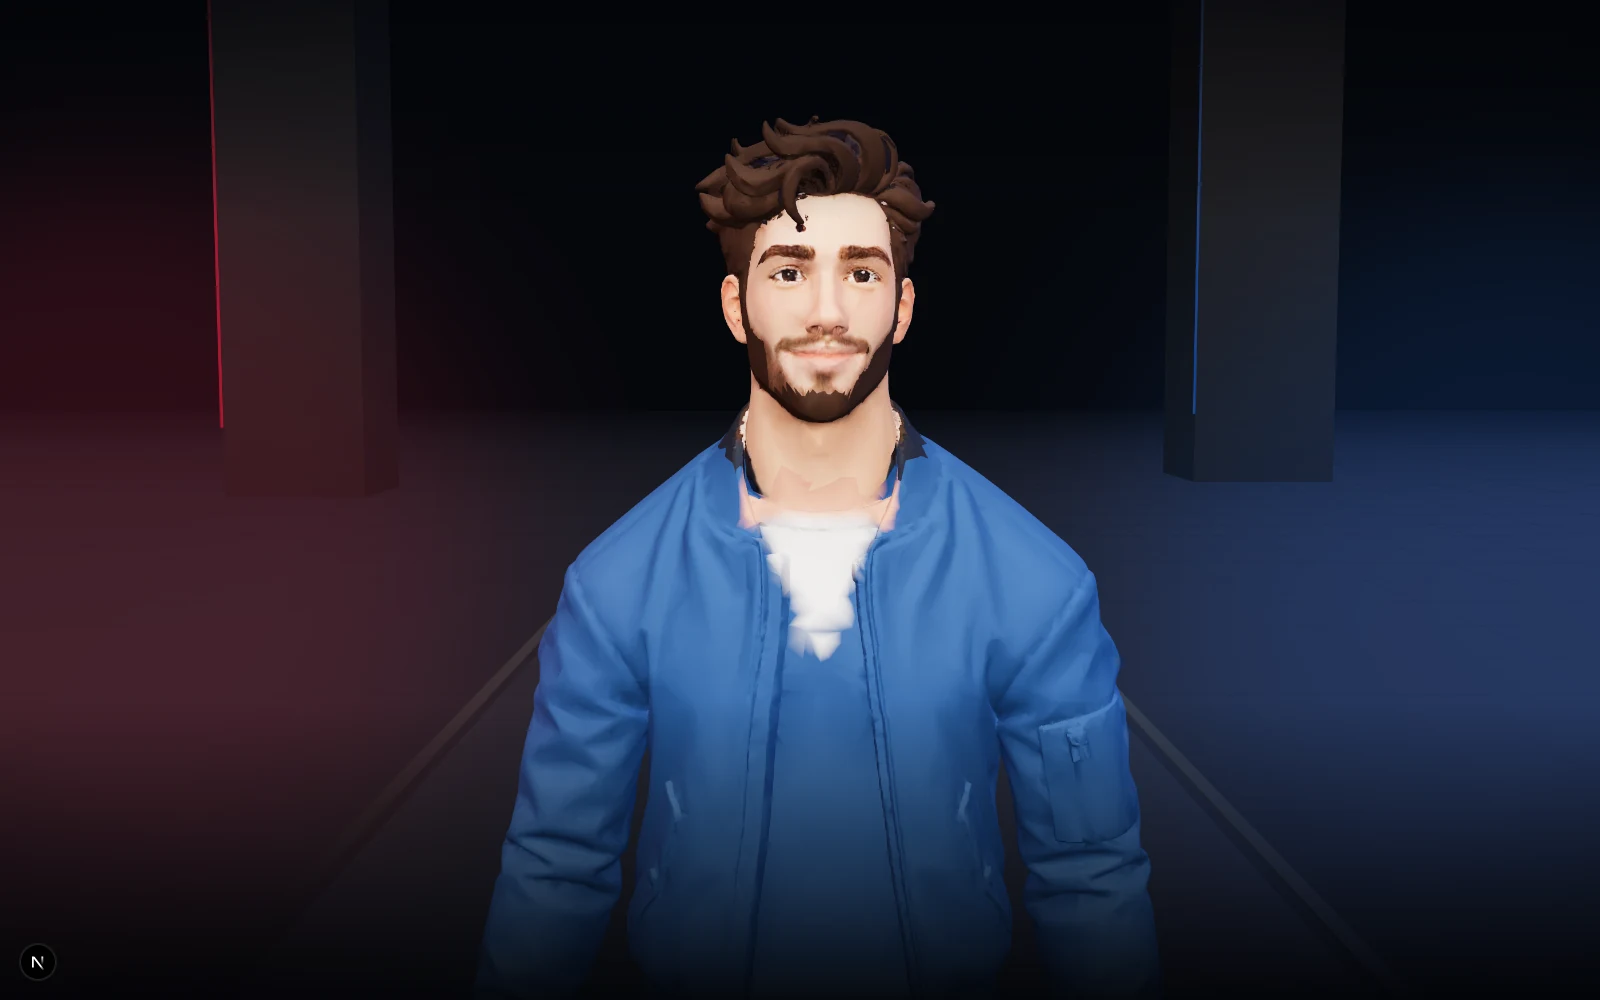
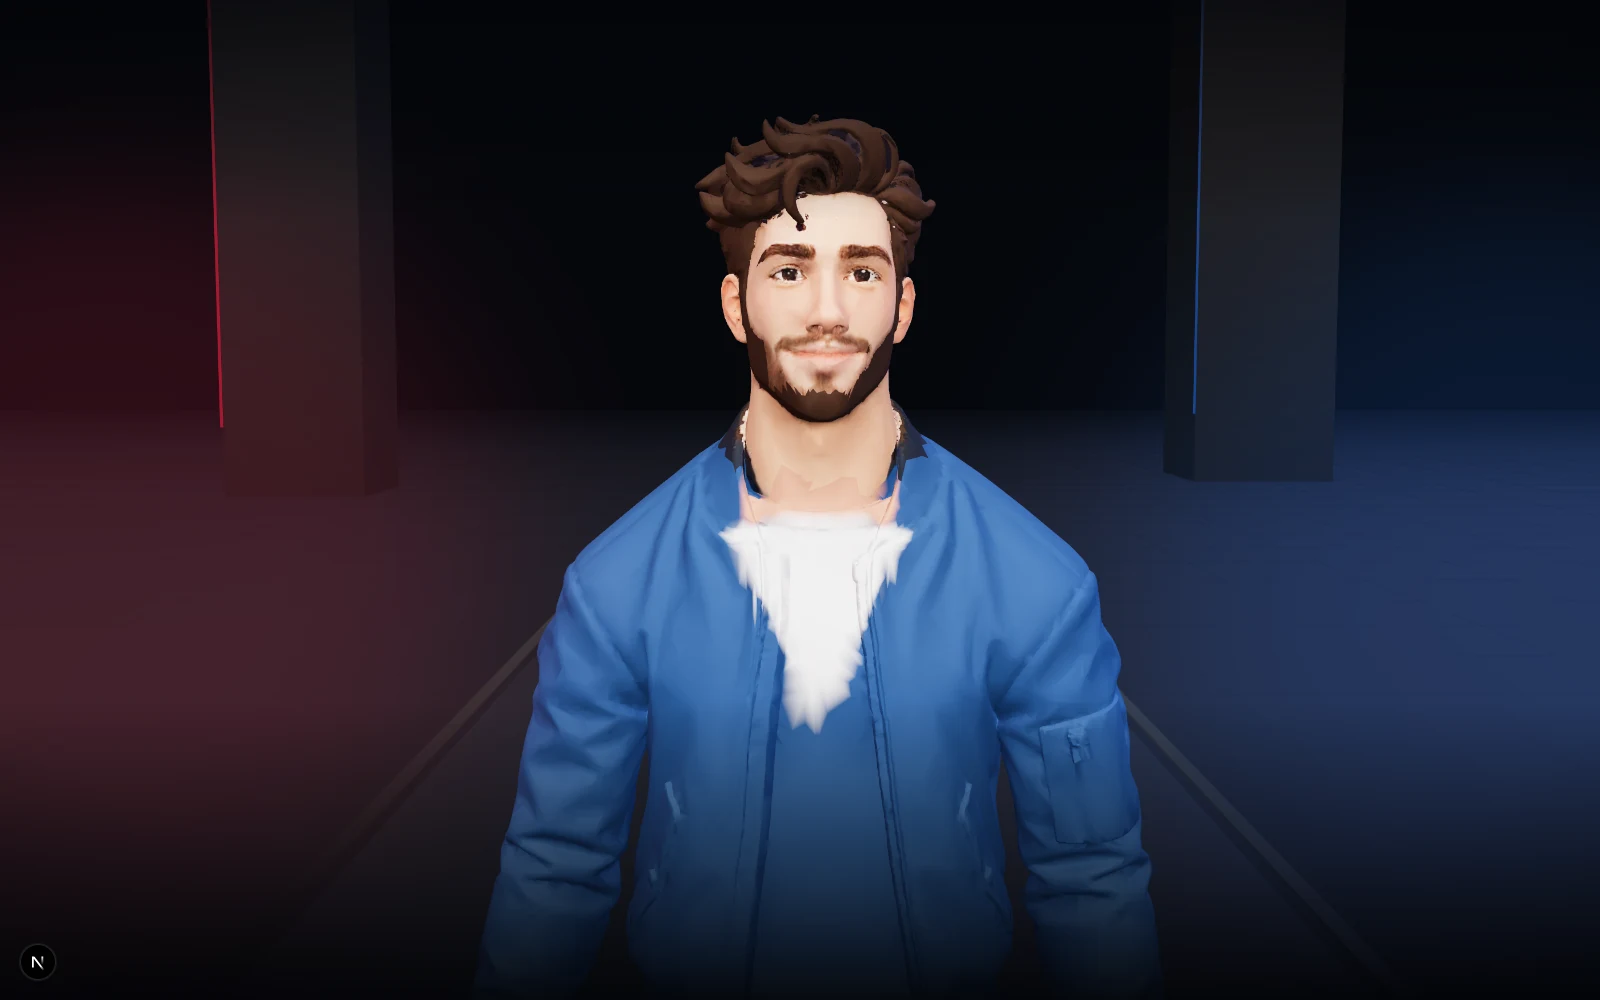
Make guide t-shirt white and jeans navy

Changed region(s): [[0.4375, 0.527, 0.5938, 0.744], [0.4688, 0.217, 0.5, 0.279], [0.5312, 0.248, 0.5625, 0.279]]

diff --git a/web/components/CinematicIntro.tsx b/web/components/CinematicIntro.tsx
@@ -253,19 +253,19 @@ const NECK_SEAM_BAND = { y0: 0.618, y1: 0.718, halfWidth: 0.07 };
 // close-up; blending the tint per vertex keeps the shirt edge soft while the
 // geometry still deforms with the rig. Raw-y bounds: a point at the sternum
 // widening to the neck.
-const TEE_V = { y0: 0.5, y1: 0.618, bottomHalfWidth: 0.012, topHalfWidth: 0.062 };
-const TEE_FEATHER = 0.012;
+const TEE_V = { y0: 0.45, y1: 0.618, bottomHalfWidth: 0.018, topHalfWidth: 0.09 };
+const TEE_FEATHER = 0.008;
 
 // The source atlas is not a coherent garment layout: jacket triangles sample
 // hair, skin and knit-top islands, which is what produced the brown seam
 // “tears” and the dark flecks on the white top. Rather than keep chasing UVs,
 // the body clothing gets clean stylized materials. Head, hands and shoes keep
 // the original textured material so the face, hair, beard and skin detail stay.
-// The upper body is rendered as a clean blue bomber with jeans in a lighter
-// denim blue. The neck seam is feathered with a vertex skin tint (NECK_SEAM_BAND)
-// so the collar reads as separate from the neck, and the jacket's V opening is
-// tinted white for the t-shirt (TEE_V). Both boundaries blend per vertex, so
-// they stay soft in close-up instead of following triangle edges.
+// The upper body is rendered as a clean blue bomber with navy jeans. The neck
+// seam is feathered with a vertex skin tint (NECK_SEAM_BAND) so the collar reads
+// as separate from the neck, and the jacket's V opening is tinted white for the
+// t-shirt (TEE_V). Both boundaries blend per vertex, so they stay soft in
+// close-up instead of following triangle edges.
 function installCleanClothing(model: THREE.Object3D): void {
   model.traverse((object) => {
     const mesh = object as THREE.Mesh;
@@ -307,6 +307,23 @@ function installCleanClothing(model: THREE.Object3D): void {
       }
     }
 
+    // Smooth white tee tint inside the V. The falloff is a few centimetres so
+    // the neckline reads as fabric in shadow, not a paint boundary.
+    const teeMasks = new Float32Array(position.count);
+    for (let vertex = 0; vertex < position.count; vertex += 1) {
+      const x = position.getX(vertex);
+      const y = position.getY(vertex);
+      const z = position.getZ(vertex);
+      const taper = clamp((y - TEE_V.y0) / (TEE_V.y1 - TEE_V.y0));
+      const halfWidth =
+        TEE_V.bottomHalfWidth + (TEE_V.topHalfWidth - TEE_V.bottomHalfWidth) * taper;
+      const across = smoothstep(clamp((halfWidth - Math.abs(x)) / TEE_FEATHER));
+      const top = smoothstep(clamp((TEE_V.y1 - y) / 0.008));
+      const bottom = smoothstep(clamp((y - TEE_V.y0) / 0.008));
+      const front = z > 0.003 ? 1 : 0;
+      teeMasks[vertex] = across * top * bottom * front;
+    }
+
     const groups: number[][] = [[], [], []];
     const original = source.array;
     const triangles = Math.floor(original.length / 3);
@@ -334,10 +351,8 @@ function installCleanClothing(model: THREE.Object3D): void {
     }
     if (groups[1].length + groups[2].length === 0) return;
 
-    // Smooth white tee tint inside the V. The falloff is a few centimetres so
-    // the neckline reads as fabric in shadow, not a paint boundary.
     const jacketColour = new THREE.Color(0x275285);
-    const teeColour = new THREE.Color(0xf1efe7);
+    const teeColour = new THREE.Color(0xffffff);
     const skinColour = new THREE.Color(0xd99479);
     const vertexColour = new THREE.Color();
     const colours = new Float32Array(position.count * 3);
@@ -345,14 +360,7 @@ function installCleanClothing(model: THREE.Object3D): void {
       const x = position.getX(vertex);
       const y = position.getY(vertex);
       const z = position.getZ(vertex);
-      const taper = clamp((y - TEE_V.y0) / (TEE_V.y1 - TEE_V.y0));
-      const halfWidth =
-        TEE_V.bottomHalfWidth + (TEE_V.topHalfWidth - TEE_V.bottomHalfWidth) * taper;
-      const across = smoothstep(clamp((halfWidth - Math.abs(x)) / TEE_FEATHER));
-      const top = smoothstep(clamp((TEE_V.y1 - y) / 0.008));
-      const bottom = smoothstep(clamp((y - TEE_V.y0) / 0.008));
-      const front = z > 0.003 ? 1 : 0;
-      const teeMask = across * top * bottom * front;
+      const teeMask = teeMasks[vertex];
 
       // The neck band replaces the old flat-skin material group. Painting the
       // collar vertices skin and feathering into the jacket removes the hard
@@ -396,10 +404,10 @@ function installCleanClothing(model: THREE.Object3D): void {
       dithering: true,
     });
     const pants = new THREE.MeshStandardMaterial({
-      color: 0x3f699c,
-      roughness: 0.92,
+      color: 0x1b2b4a,
+      roughness: 0.94,
       metalness: 0,
-      envMapIntensity: 0.3,
+      envMapIntensity: 0.25,
       side: THREE.DoubleSide,
       dithering: true,
     });

diff --git a/docs/IMPLEMENTATION.md b/docs/IMPLEMENTATION.md
@@ -682,8 +682,8 @@ Each role is a real route: `/jobs/genai`, `/jobs/data`, `/jobs/uiux`. The homepa
 | Local files | `web/public/models/student/` |
 | Posters | `scene.webp` is the wide selector still used by the boot/static background; `portrait.webp` is a close-up reference render |
 | Mesh | 85,487 triangles; quantized; embedded WebP textures: 2048px basecolour, 1024px normal and metallic-roughness; shipped GLB 3,684,764 B |
-| Look | Bearded adult, warm-brown hair, blue bomber over a white V-neck t-shirt, blue jeans, white sneakers; no runtime glasses |
-| Shading | Runtime geometry split into three indexed material groups: original textured atlas (head, hair, hands, shoes), a vertex-coloured clothing group (blue bomber plus the white t-shirt V and the feathered skin neck tint) and blue jeans. The tee and neck tint are per-vertex colour blends, not separate hard-edged material groups, so the collar and t-shirt boundaries stay soft in close-up. Textured material: `metalness: 0`, roughness `0.86`, normal scale `0.38`, environment intensity `0.42`; clothing materials are matte `MeshStandardMaterial` with dithering. Clothing/face can be tuned independently without re-authoring the atlas |
+| Look | Bearded adult, warm-brown hair, blue bomber over a white V-neck t-shirt, navy jeans, white sneakers; no runtime glasses |
+| Shading | Runtime geometry split into three indexed material groups: original textured atlas (head, hair, hands, shoes), a vertex-coloured clothing group (blue bomber `0x275285`, the white t-shirt V `0xffffff` and the feathered skin neck tint `0xd99479`) and navy jeans (flat `0x1b2b4a`). The tee and neck tint are per-vertex colour blends, not separate hard-edged material groups, so the collar and t-shirt boundaries stay soft in close-up. Textured material: `metalness: 0`, roughness `0.86`, normal scale `0.38`, environment intensity `0.42`; clothing materials are matte `MeshStandardMaterial` with dithering. Clothing/face can be tuned independently without re-authoring the atlas |
 | Motion | Walk (1.0 s) + run clips; breathing idle averages four walk poses to remove the stride, then layers a 5.6 s chest/head cycle; 1.8 m stride-matched walk; 0.55 s turn before travel |
 | Rotation | `student-turntable` group inside the character root; pointer drag in `selecting`; auto-rotate defaults **off** but can be enabled from the dock; turntable yaw is independent of skeleton animation and resets smoothly before walking |
 | Framing | The selector camera is a close stage shot: the full guide is about 60% of a 900px viewport, with the head below the top bar and the shoes above the bottom dock; the face fill follows the character so the face stays readable after the walk |
@@ -693,7 +693,7 @@ Each role is a real route: `/jobs/genai`, `/jobs/data`, `/jobs/uiux`. The homepa
 The guide is deliberately a stylized prototype, not a finished character. The source
 atlas has scrambled garment UV islands: jacket, knit top, hair and skin shared one texture,
 which produced brown “tears” and dark flecks when the atlas was used directly. The runtime
-now replaces the jacket, trousers and knit top with clean materials: a blue bomber, blue
+now replaces the jacket, trousers and knit top with clean materials: a blue bomber, navy
 jeans, a white t-shirt V and a feathered skin tint at the collar. The tint and tee are
 vertex-colour blends, so the low-poly neckline seam no longer reads as a hard collar band.
 Because the cleaned atlas is only sampled by those remaining textured triangles, residual
@@ -1001,6 +1001,8 @@ Live verification after the push (2026-10-22, `0baecf8`): the deployment served 
 Outfit refresh (2026-10-22, local dev capture, pre-deployment commit): `npx tsc --noEmit` and `npm run build` pass. Local captures at 1280×800 and 2560×1440 show the blue bomber, blue jeans and a visible white V-neck t-shirt. The collar and t-shirt boundaries are per-vertex colour blends, so there is no pink material sawtooth and no torn-looking edge in close-up. The dock read `AUTO-ROTATE OFF` after a 3 s hold, and a pointer drag rotated the guide to the side and back. No page errors were reported. Local `/api/jobs` served the bundled fallback rather than live counts, so live counts are re-verified after deployment. The regenerated posters are `scene.webp` (74,924 B) and `portrait.webp` (38,112 B).
 
 Live verification after the outfit push (2026-10-22, `cc60e7c`): the deployment served the new `scene.webp` (74,924 B) and `portrait.webp` (38,112 B). Captures at 1280×800 and 1600×900, taken seven seconds after skipping the intro, show the blue bomber, blue jeans, white V-neck t-shirt and soft collar. The dock read `AUTO-ROTATE OFF` and no page errors were reported. `/api/jobs` returned GenAI **1,084**, Data Engineering **1,234** and UI/UX **1,280**, all `demo=false`; `/api/status` reported `configured=true`; `/`, `/jobs/genai`, `/jobs/data` and `/jobs/uiux` returned 200. A capture taken three seconds after skipping was still mid lighting ramp at 1600×900; the settled seven-second capture is the reference.
+
+Outfit colour pass (2026-10-22, local dev capture, pre-deployment): `npx tsc --noEmit` and `npm run build` pass. The guide now renders a blue bomber (`0x275285`), navy jeans (`0x1b2b4a`) and a pure-white V-neck t-shirt (`0xffffff` vertex tint), with the feathered collar skin at `0xd99479`. Captures at 1280×800, 1600×900 and 2560×1440 show the jeans clearly darker than the jacket and the t-shirt visibly white at both selector and close-up scale. The dock read `AUTO-ROTATE OFF` after a 3 s hold, and a pointer drag rotated the guide to the side and back. No page errors were reported. The regenerated posters are `scene.webp` (74,192 B) and `portrait.webp` (38,452 B).
 
 The refresh panel counts elapsed time from the current request rather than the previous run (`357b5ff`), and `/api/jobs` reads the `data` branch on every cache miss so a published scrape is not hidden by the origin cache (`5264079`).
 

diff --git a/docs/ARCHITECTURE.md b/docs/ARCHITECTURE.md
@@ -496,7 +496,7 @@ No paid domain, database, proxy, or API subscription is required for the core fl
 6. **Legacy `first_seen` values.** Pre-change jobs may show the portal posted date as “first seen” because no earlier scrape history was stored.
 7. **Retention is 21 days.** A job that disappears from the portals can remain on the board for up to 21 days.
 8. **Terms of service.** Scraping public pages may be restricted by individual portals; this project is intended for personal, non-commercial use.
-9. **The 3D guide is a prototype.** The rigged character is a stylized CC0 base (a bearded adult in a blue bomber over a white V-neck t-shirt and blue jeans) with no facial blendshapes, eye rig, lip-sync or motion capture. Its walk/run clips are the only shipped animation, and the close-up is staged to avoid uncanny detail the asset cannot support. The scrambled garment atlas is replaced at runtime by clean blue clothing groups, with the neck tint and t-shirt V blended per vertex, while the head, hair, hands and sneakers keep the original texture; it is still a modified stock asset, not a bespoke character.
+9. **The 3D guide is a prototype.** The rigged character is a stylized CC0 base (a bearded adult in a blue bomber over a white V-neck t-shirt and navy jeans) with no facial blendshapes, eye rig, lip-sync or motion capture. Its walk/run clips are the only shipped animation, and the close-up is staged to avoid uncanny detail the asset cannot support. The scrambled garment atlas is replaced at runtime by clean blue clothing groups, with the neck tint and t-shirt V blended per vertex, while the head, hair, hands and sneakers keep the original texture; it is still a modified stock asset, not a bespoke character.
 10. **The cinematic is not required.** Reduced-motion, WebGL failure and model failure all fall back to a static selector; jobs are never blocked behind the animation.
 
 ---

diff --git a/README.md b/README.md
@@ -240,7 +240,7 @@ The guide is a **stylized, rigged CC0 “Casual Man” base by Grab3D**, optimiz
 web. It was simplified from 244,257 to 85,487 triangles. The basecolour atlas is 2048px
 and the normal and metallic-roughness maps are 1024px, all WebP. The source atlas has
 scrambled garment UV islands, so the runtime splits the body geometry into clean material
-groups: a blue bomber, blue jeans, a white V-neck t-shirt and a feathered skin tint around
+groups: a blue bomber, navy jeans, a white V-neck t-shirt and a feathered skin tint around
 the neck. Head, hair, beard, hands and white sneakers keep the original textured material.
 The neck seam and t-shirt neckline are blended per vertex, so the collar sits below the
 neck with a soft transition instead of a hard triangle edge. The textured material uses a
